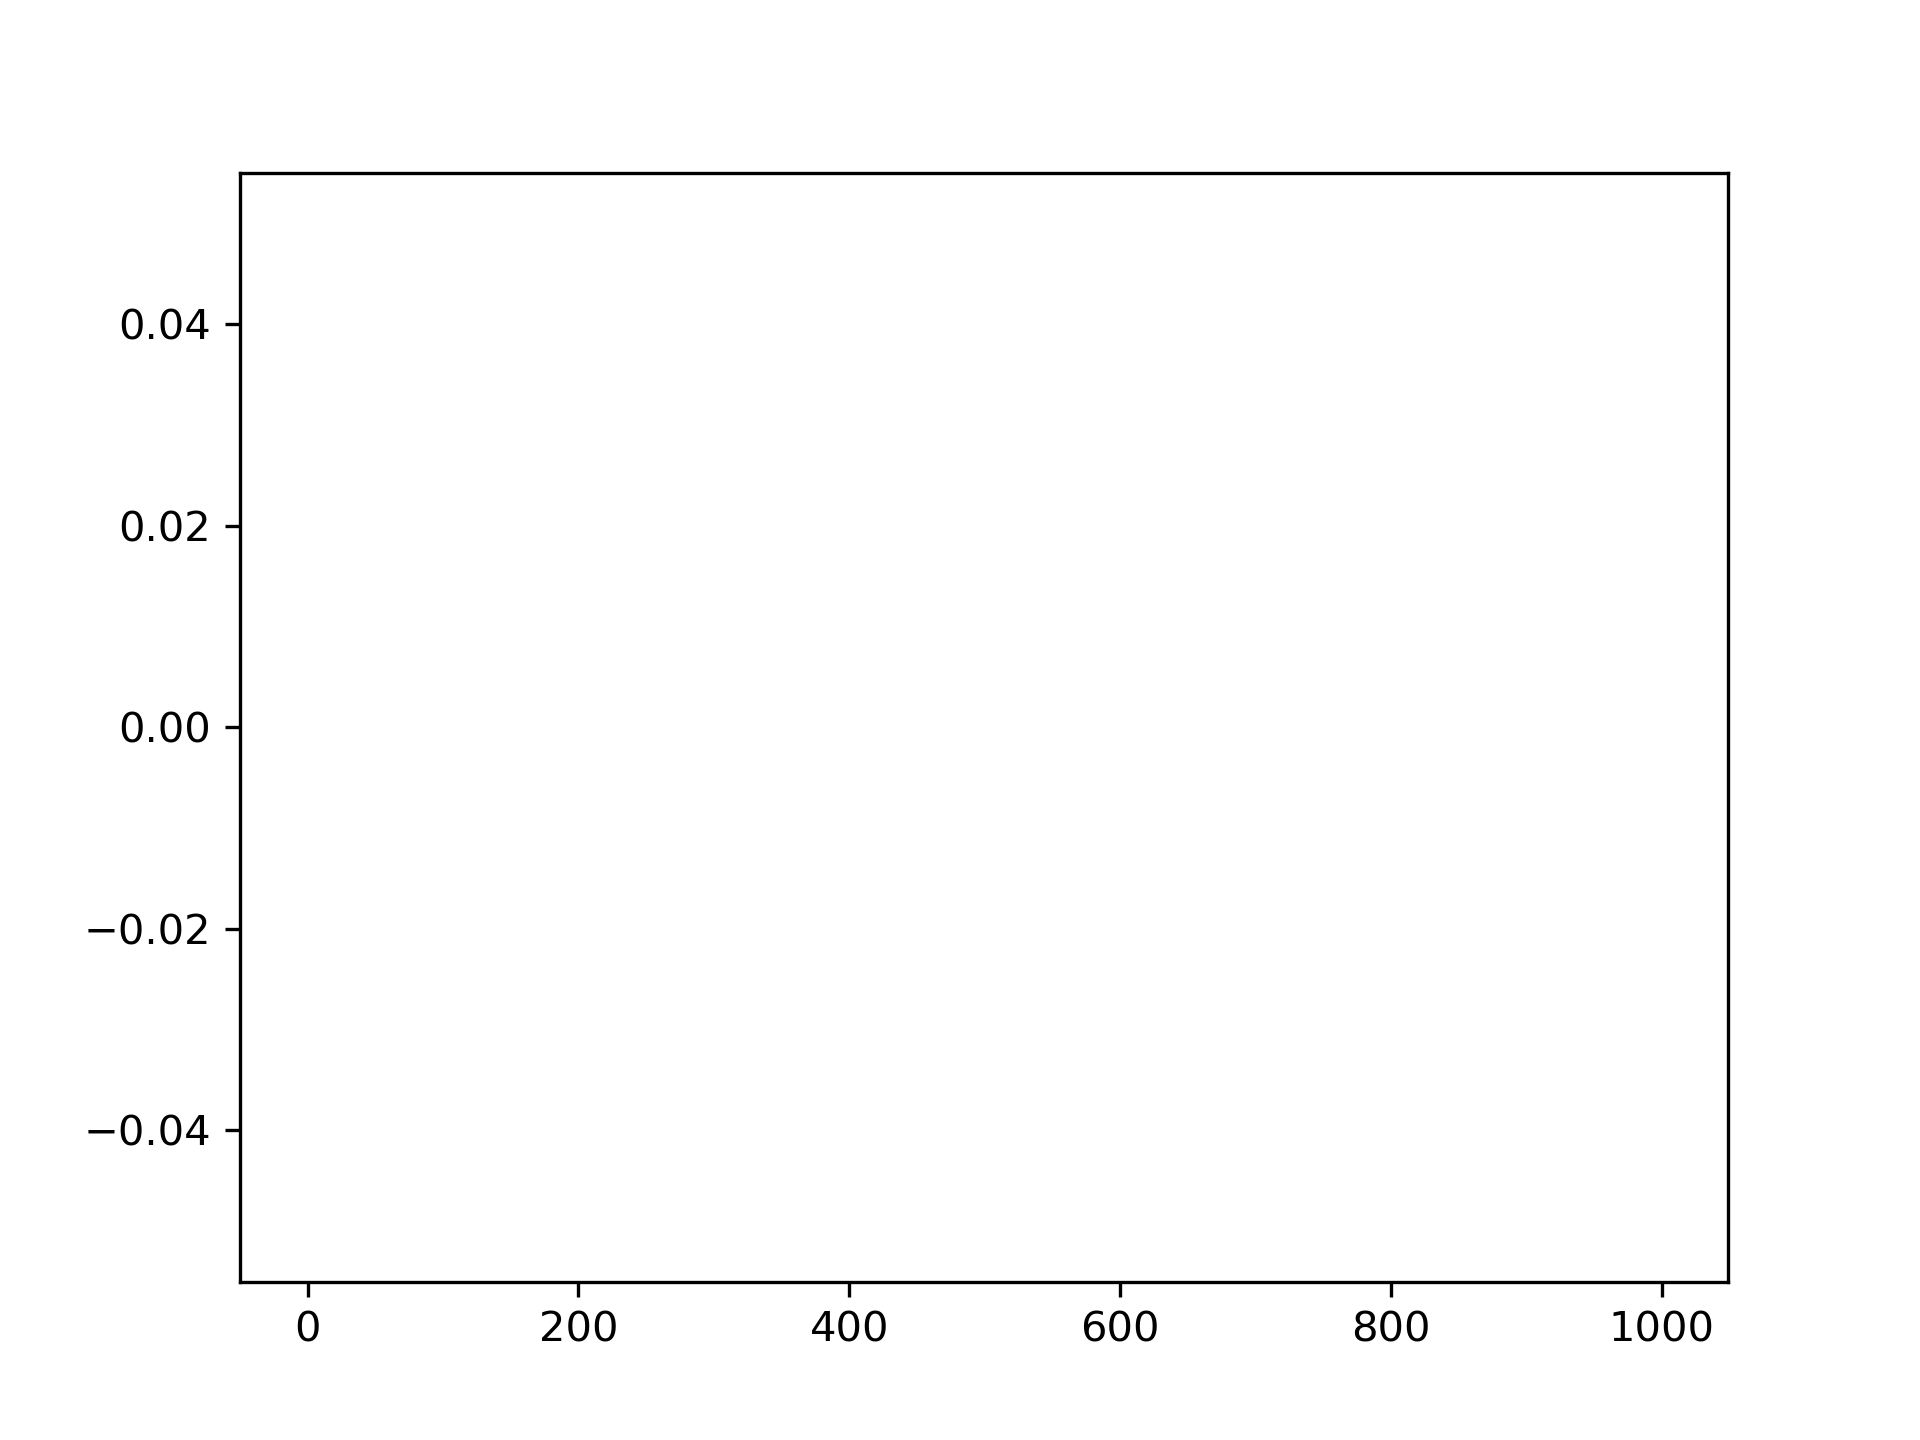
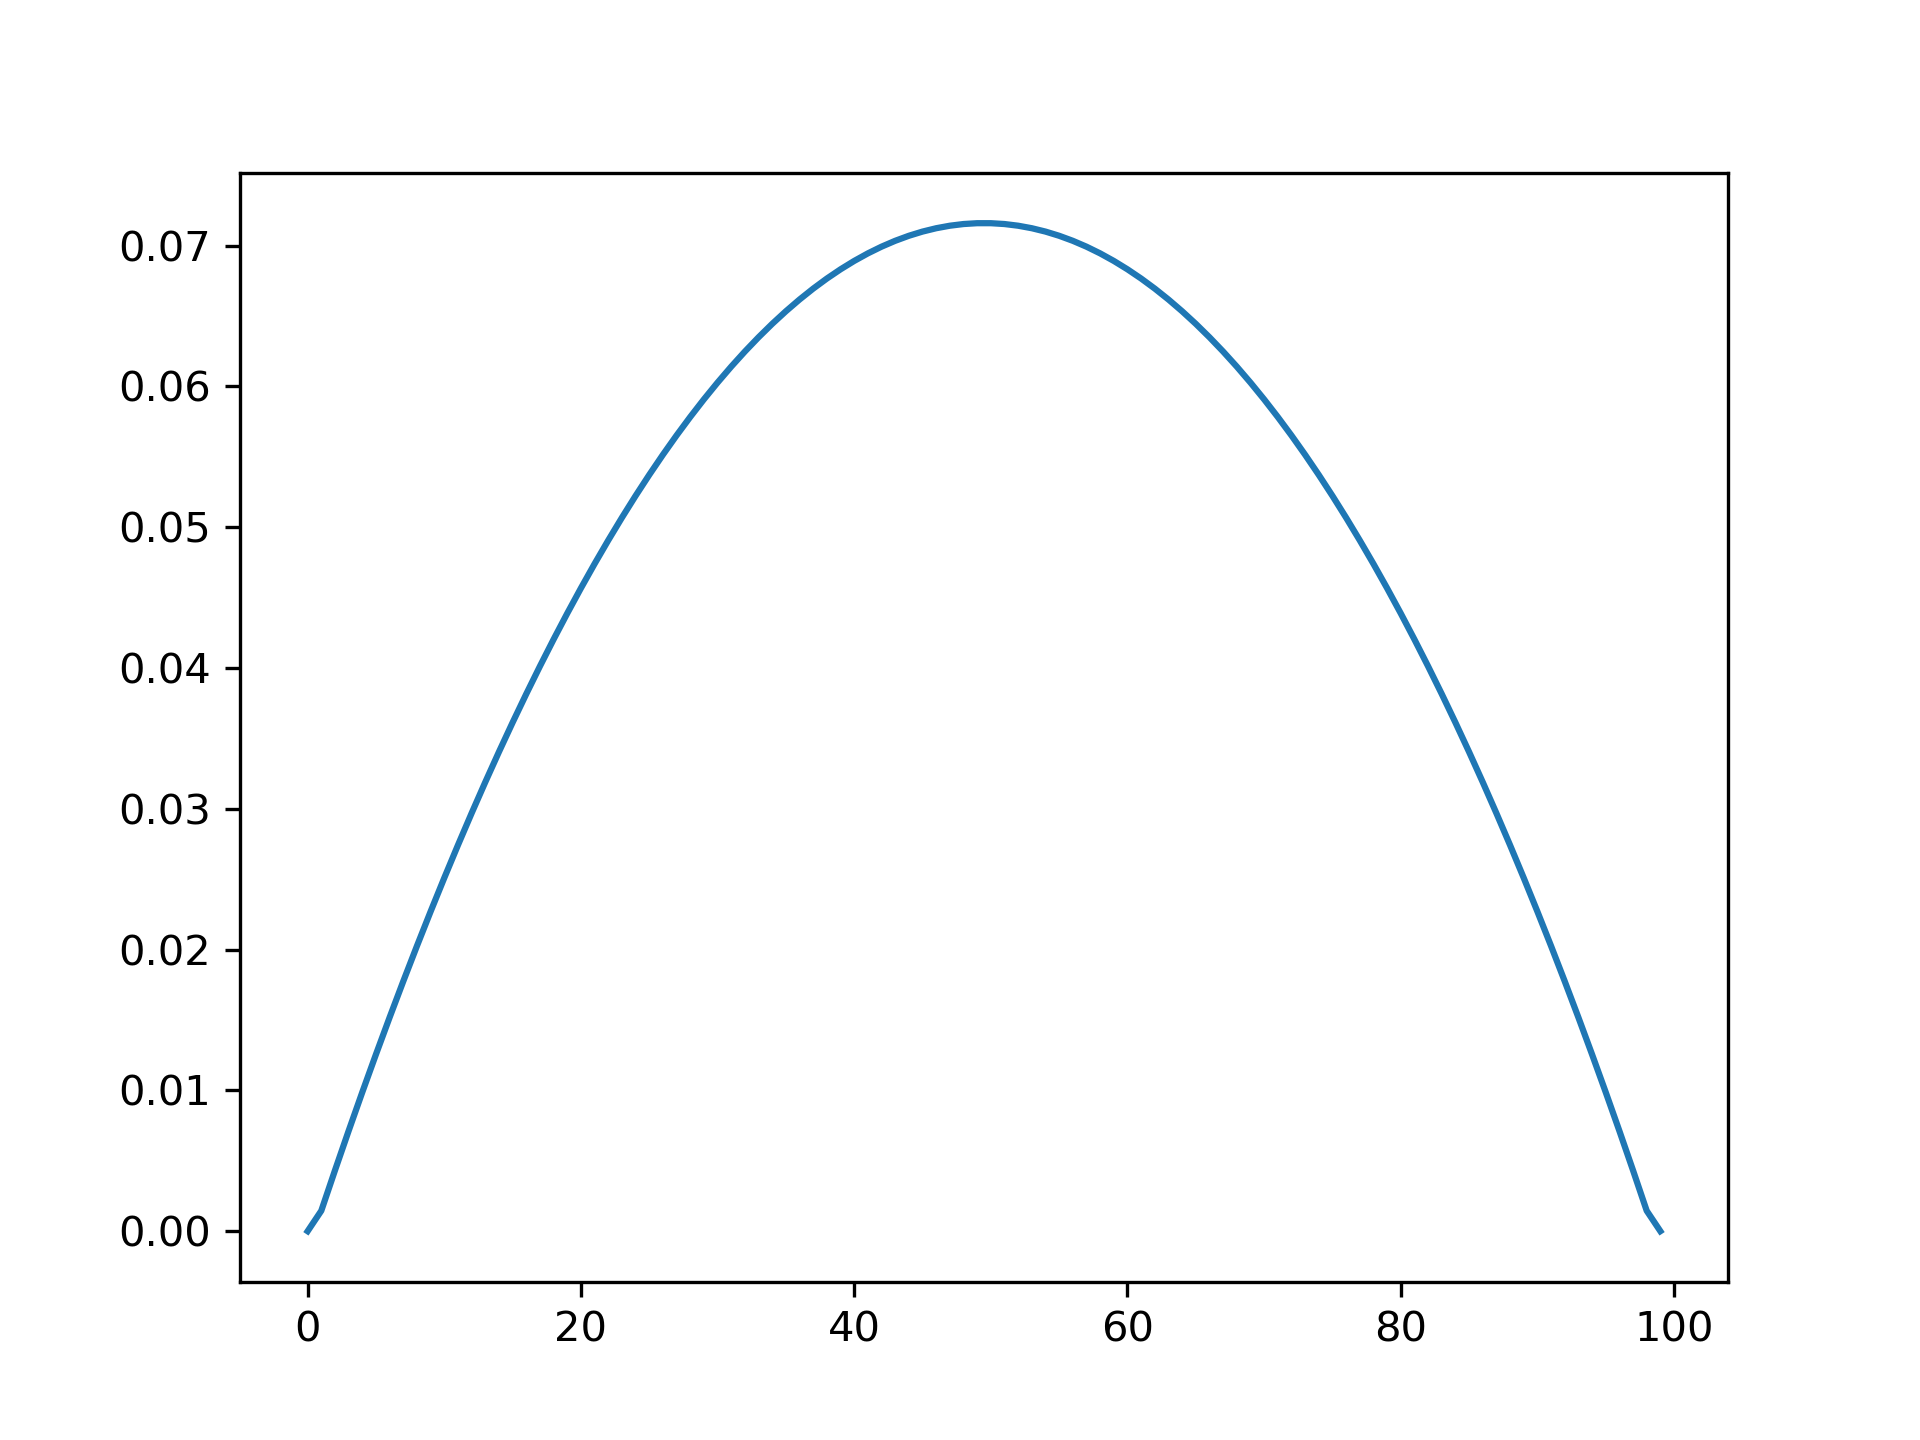
Numba double precision is done

diff --git a/Numba/Numba_gpu_single.py b/Numba/Numba_gpu_single.py
@@ -3,85 +3,57 @@ import numba as nb
 from numba import cuda
 import matplotlib.pyplot as plt
 import time
-dtype = np.float64
-jit_parallel = nb.njit(nogil=True,parallel=True)
 
-
-dtype = np.float64
-ex = np.array([0, 1, 0, 1, 1, -1, 0, -1, -1], dtype=dtype)
-ey = np.array([0, 0, 1, 1, -1, 0, -1, -1, 1], dtype=dtype)
-es = (1/3)**0.5
+dtype = np.float32
+ex_host = np.array([0, 1, 0, 1, 1, -1, 0, -1, -1], dtype=dtype)
+ey_host = np.array([0, 0, 1, 1, -1, 0, -1, -1, 1], dtype=dtype)
+es_host = (1/3)**0.5
 w0 = 4/9
 ws = 1/9
 wl = 1/36
-w = np.array([w0, ws, ws, wl, wl, ws, ws, wl, wl], dtype=dtype)
+w_host = np.array([w0, ws, ws, wl, wl, ws, ws, wl, wl], dtype=dtype)
 
-ex_gpu = cuda.to_device(ex)
-ey_gpu = cuda.to_device(ey)
+ex = cuda.to_device(ex_host)
+ey = cuda.to_device(ey_host)
 #es = cuda.to_device(es_host)  # es is a scalar, no need to copy to constant memory
-w_gpu = cuda.to_device(w)
+w = cuda.to_device(w_host)
 
+@cuda.jit
+def compute_macro_vars_gpu(f, nodetype, rho, u):
+    j, i = cuda.grid(2)
+    ny, nx = nodetype.shape
+    if i < ny and j < nx and nodetype[i, j] <= 0:
+        rho[i, j] = f[i, j, 0] + f[i, j, 1] + f[i, j, 2] + f[i, j, 3] + f[i, j, 4] + f[i, j, 5] + f[i, j, 6] + f[i, j, 7] + f[i, j, 8] 
+        fdotex = f[i, j, 1] + f[i, j, 3] + f[i, j, 4] - f[i, j, 5] - f[i, j, 7] - f[i, j, 8]
+        fdotey = f[i, j, 2] + f[i, j, 3] - f[i, j, 4] - f[i, j, 6] - f[i, j, 7] + f[i, j, 8]
+        u[0, i, j] = fdotex / rho[i, j]
+        u[1, i, j] = fdotey / rho[i, j]
+    elif i < ny and j < nx:
+        rho[i, j] = 0
+        u[0, i, j] = 0
+        u[1, i, j] = 0
 
-@jit_parallel
-def collide(f,rho,u,nodetype,tau,Fg):
-    ny,nx = nodetype.shape
-    for i in nb.prange(ny):
-        feq = [0.]*9
-        for j in range(nx):
-            if nodetype[i,j]<=0:
-                #apply forcing
-                u[0,i,j]+=Fg[0,i,j]*tau[i,j]/rho[i,j]
-                u[1,i,j]+=Fg[1,i,j]*tau[i,j]/rho[i,j]
-                #compute equilibrium distribution function
-                feq[0]= rho[i, j]*(-2.0/3.0*u[0,i, j]**2 - 2.0/3.0*u[1,i, j]**2 + 4.0/9.0)
-                feq[1]= rho[i, j]*((1.0/3.0)*u[0,i, j]**2 + (1.0/3.0)*u[0,i, j] - 1.0/6.0*u[1,i, j]**2 + 1.0/9.0)
-                feq[2]= rho[i, j]*(-1.0/6.0*u[0,i, j]**2 + (1.0/3.0)*u[1,i, j]**2 + (1.0/3.0)*u[1,i, j] + 1.0/9.0)
-                feq[3]= rho[i, j]*(-1.0/24.0*u[0,i, j]**2 + (1.0/12.0)*u[0,i, j] - 1.0/24.0*u[1,i, j]**2 + ( 
-                1.0/12.0)*u[1,i, j] + (1.0/8.0)*(u[0,i, j] + u[1,i, j])**2 + 1.0/36.0)
-                feq[4]= rho[i, j]*(-1.0/24.0*u[0,i, j]**2 + (1.0/12.0)*u[0,i, j] - 1.0/24.0*u[1,i,j]**2 - 
-                1.0/12.0*u[1,i,j] + (1.0/8.0)*(u[0,i,j] - u[1,i,j])**2 + 1.0/36.0)
-                feq[5]= rho[i,j]*((1.0/3.0)*u[0,i,j]**2 - 1.0/3.0*u[0,i,j] - 1.0/6.0*u[1,i,j]**2 + 1.0/9.0)
-                feq[6]= rho[i,j]*(-1.0/6.0*u[0,i,j]**2 + (1.0/3.0)*u[1,i,j]**2 - 1.0/3.0*u[1,i,j] + 1.0/9.0)
-                feq[7]= rho[i,j]*(-1.0/24.0*u[0,i,j]**2 - 1.0/12.0*u[0,i,j] - 1.0/24.0*u[1,i,j]**2 - 
-                1.0/12.0*u[1,i,j] + (1.0/8.0)*(-u[0,i,j] - u[1,i,j])**2 + 1.0/36.0)
-                feq[8]= rho[i,j]*(-1.0/24.0*u[0,i,j]**2 - 1.0/12.0*u[0,i,j] - 1.0/24.0*u[1,i,j]**2 + ( 
-                1.0/12.0)*u[1,i,j] + (1.0/8.0)*(-u[0,i,j] + u[1,i,j])**2 + 1.0/36.0)
-                #collision
-                for q in range(9):
-                    f[i,j,q]=(1.0-(1.0/(tau[i,j])))*f[i,j,q] +(1.0/(tau[i,j]))*feq[q] 
-
-                for q in range(1,5):
-                    fswap = f[i,j,q]
-                    f[i,j,q]=f[i,j,q+4]
-                    f[i,j,q+4]=fswap
-
-    return f  
-
-
-@jit_parallel
-def stream_and_bounce(f,nodetype):
-    global ex,ey,dtype
-    ny,nx = nodetype.shape
-    for i in nb.prange(ny):
-        for j in range(nx):
-            if nodetype[i,j]<=0:
-                for q in range(1,5):
-                    nexti = int(i-ey[q])
-                    nextj = int(j+ex[q])
-                    if nexti > ny-1: nexti = int(0)
-                    if nextj > nx-1: nextj = int(0)                        
-                    if nodetype[nexti,nextj]<=0:
-                        fswap = f[nexti,nextj,q]
-                        f[nexti,nextj,q] = f[i,j,q+4]
-                        f[i,j,q+4] = fswap
-
-    return f
-
-
+@cuda.jit
+def compute_edf_gpu(rho, u, nodetype, feq,ex,ey,w):
+    j, i = cuda.grid(2)
+    ny, nx = nodetype.shape
+    if i < ny and j < nx and nodetype[i, j] <= 0:
+        for q in range(9):
+            es= (1/3)**0.5
+            Termorder1 = (1. / es**2) * (ex[q] * u[0, i, j] + ey[q] * u[1, i, j])
+            euxy = ex[q] * ey[q] * u[0, i, j] * u[1, i, j]
+            euxx = ex[q] * ex[q] * u[0, i, j] * u[0, i, j]
+            euyy = ey[q] * ey[q] * u[1, i, j] * u[1, i, j]
+            eu2 = 2 * euxy + euxx + euyy
+            ux2 = u[0, i, j] * u[0, i, j]
+            uy2 = u[1, i, j] * u[1, i, j]
+            u2 = ux2 + uy2
+            Termorder2 = (0.5 / es**4) * eu2 - (0.5 / es**2) * u2
+            feq[i, j, q] = w[q] * rho[i, j] * (1 + Termorder1 + Termorder2)
 
 @cuda.jit
 def collide_gpu(f, rho, u, nodetype, tau, Fg):
-    i, j = cuda.grid(2)
+    j, i = cuda.grid(2)
     ny, nx = nodetype.shape
     if i < ny and j < nx and nodetype[i, j] <= 0:
         # Apply forcing
@@ -117,16 +89,17 @@ def collide_gpu(f, rho, u, nodetype, tau, Fg):
 
 @cuda.jit
 def update_f_old(f, f_old):
-    i, j = cuda.grid(2)
+    j, i = cuda.grid(2)
     ny, nx = f.shape[0] , f.shape[1]  
 
     if i < ny and j < nx:
         for q in range(9):  # Copy all directions, including q=0
             f_old[i, j, q] = f[i, j, q]
 
+
 @cuda.jit
 def stream_and_bounce_gpu(f, f_old, nodetype, ex, ey):
-    i, j = cuda.grid(2)
+    j, i = cuda.grid(2)
     ny, nx = nodetype.shape
 
     if i < ny and j < nx and nodetype[i, j] <= 0:
@@ -142,21 +115,22 @@ def stream_and_bounce_gpu(f, f_old, nodetype, ex, ey):
                 else:
                     f[i, j, q] = f_old[i, j, q - 4]
 
+              
 
-def test_stream():
-    nx = 10000
-    ny = 10000
+def test_lb():
+    nx = 2000
+    ny = 1000
+    niters = 400000
     rho = np.ones((ny, nx), dtype=dtype)
     tau = np.ones((ny, nx), dtype=dtype)
-    u = np.ones((2, ny, nx), dtype=dtype)*1e-4
+    u = np.zeros((2, ny, nx), dtype=dtype)
     Fg = np.zeros((2, ny, nx), dtype=dtype)
-    Fg[0, :, :] = 1e-4
+    Fg[0, :, :] = 1e-7
     nodetype = np.zeros((ny, nx), dtype=dtype)
     nodetype[0, :] = 1
     nodetype[-1, :] = 1
-    f = np.random.rand(ny, nx, 9).astype(dtype)
+    f = np.zeros((ny, nx, 9), dtype=dtype)
     f_old = np.zeros((ny, nx, 9), dtype=dtype)
-
 
     # GPU Memory Allocation
     f_d = cuda.to_device(f)
@@ -167,49 +141,32 @@ def test_stream():
     Fg_d = cuda.to_device(Fg)
     nodetype_d = cuda.to_device(nodetype)
 
-    #rho[10,10] += 1e-4
-
     threads_per_block = (16, 16)
     blocks_per_grid_x = (nx + threads_per_block[0] - 1) // threads_per_block[0]
     blocks_per_grid_y = (ny + threads_per_block[1] - 1) // threads_per_block[1]
     blocks_per_grid = (blocks_per_grid_x, blocks_per_grid_y)
 
-    collide_gpu[blocks_per_grid, threads_per_block](f_d, rho_d, u_d, nodetype_d, tau_d, Fg_d)
+    compute_edf_gpu[blocks_per_grid, threads_per_block](rho_d, u_d, nodetype_d, f_d,ex,ey,w)
+    t0 = time.time()
+    for i in range(niters):
+        collide_gpu[blocks_per_grid, threads_per_block](f_d, rho_d, u_d, nodetype_d, tau_d, Fg_d)
+        update_f_old[blocks_per_grid, threads_per_block](f_d, f_old_d)
+        stream_and_bounce_gpu[blocks_per_grid, threads_per_block](f_d,f_old_d, nodetype_d,ex,ey)
+        compute_macro_vars_gpu[blocks_per_grid, threads_per_block](f_d, nodetype_d, rho_d, u_d)
+    t1 = time.time()
 
-    update_f_old[blocks_per_grid, threads_per_block](f_d,f_old_d)
+    f = f_d.copy_to_host()
+    u = u_d.copy_to_host()
 
-    stream_and_bounce_gpu[blocks_per_grid, threads_per_block](f_d, f_old_d, nodetype_d, ex_gpu, ey_gpu)
+    mlups = (ny * nx * niters * 1e-6) / (t1 - t0)
+    print("MLUPS:", mlups)
+    print("Time taken", t1 - t0)
 
-    #f_d[10,10,2] +=1e-3
+    # plt.figure(1)
+    # plt.quiver(u[0], u[1])
+    # plt.savefig("guiver.png", dpi=300)
+    plt.figure(2)
+    plt.plot(u[0][:, int(nx / 2)])
+    plt.savefig("profile_gpu",dpi=300)
 
-    f_gpu = f_d.copy_to_host()
-
-    f_old_gpu = f_old_d.copy_to_host()
-
-    collide(f, rho,u,nodetype, tau, Fg)
-
-    f_cpu = stream_and_bounce(f, nodetype)
-
-    f_cpu[10,10,6] +=1e-16   
-
-    # print("f_gpu dtype:", f_gpu.dtype)
-    # print("f_cpu dtype:", f_cpu.dtype)
-
-    # print("NaNs in GPU:", np.isnan(f_gpu).any())
-    # print("NaNs in CPU:", np.isnan(f_cpu).any())
-    # diff = np.abs(f_cpu[10,10,6] - f_gpu[10,10,6])
-
-    # tol = 1e-20
-
-    # if diff < tol:
-    #     print ("True")
-    #     print(tol)
-    # else:
-    #     print("False")
-    #     print(tol)
-    #print(f_cpu[10,10,6] , f_gpu[10,10,6])
-    #equal = np.isclose(f_gpu[10,10,6], f_cpu[10,10,6], rtol=0, atol=1e-17)
-    equal = np.allclose(f_gpu, f_cpu, atol=1e-17,rtol=0 )
-    print(equal)
-
-test_stream()
+test_lb()

diff --git a/Numba/LBM_Numba_CPU.py b/Numba/LBM_Numba_CPU.py
@@ -103,14 +103,14 @@ def stream_and_bounce(f,nodetype):
 
 def test_lb():
     import time
-    nx=1000
-    ny=500
-    niters=50000
+    nx=100
+    ny=100
+    niters=30000
     rho =np.ones((ny,nx), dtype = dtype)
     tau =np.ones((ny,nx), dtype = dtype)
     u  =np.zeros((2,ny,nx),dtype = dtype)
     Fg = np.zeros((2,ny,nx),dtype = dtype)
-    Fg[0,:,:]=1e-4
+    Fg[0,:,:]=1e-5
     nodetype  =np.zeros((ny,nx),dtype = dtype)
     nodetype[0,:]=1
     nodetype[-1,:]=1
@@ -125,13 +125,14 @@ def test_lb():
     print("MLUPS:",mlups)
     print("Time taken",t1-t0)
     if True:
-        plt.figure(1)
-        plt.quiver(u[0],u[1])
+        # plt.figure(1)
+        # plt.quiver(u[0],u[1])
         plt.figure(2)
         plt.plot(u[0][:,int(nx/2)])
-        plt.figure(3)
-        plt.imshow(u[0])
-        plt.show()
+        plt.savefig("profile",dpi=300)
+        # plt.figure(3)
+        # plt.imshow(u[0])
+        #plt.show()
 
 test_lb()
 

diff --git a/Numba/Numba_gpu.py b/Numba/Numba_gpu.py
@@ -118,14 +118,14 @@ def stream_and_bounce_gpu(f, f_old, nodetype, ex, ey):
               
 
 def test_lb():
-    nx = 2000
+    nx = 1000
     ny = 1000
-    niters = 3000
+    niters = 400000
     rho = np.ones((ny, nx), dtype=dtype)
     tau = np.ones((ny, nx), dtype=dtype)
     u = np.zeros((2, ny, nx), dtype=dtype)
     Fg = np.zeros((2, ny, nx), dtype=dtype)
-    Fg[0, :, :] = 1e-4
+    Fg[0, :, :] = 1e-7
     nodetype = np.zeros((ny, nx), dtype=dtype)
     nodetype[0, :] = 1
     nodetype[-1, :] = 1
@@ -162,11 +162,11 @@ def test_lb():
     print("MLUPS:", mlups)
     print("Time taken", t1 - t0)
 
-    plt.figure(1)
-    plt.quiver(u[0], u[1])
-    plt.savefig("guiver.png", dpi=300)
+    # plt.figure(1)
+    # plt.quiver(u[0], u[1])
+    # plt.savefig("guiver.png", dpi=300)
     plt.figure(2)
     plt.plot(u[0][:, int(nx / 2)])
-    plt.savefig("profile",dpi=300)
+    plt.savefig("profile_gpu",dpi=300)
 
 test_lb()

diff --git a/Numba/compare_edf.py b/Numba/compare_edf.py
@@ -47,7 +47,7 @@ def compute_edf(rho,u,nodetype):
 
 @cuda.jit
 def compute_edf_gpu(rho, u, nodetype, feq,ex,ey,w):
-    i, j = cuda.grid(2)
+    j, i = cuda.grid(2)
     ny, nx = nodetype.shape
     if i < ny and j < nx and nodetype[i, j] <= 0:
         for q in range(9):
@@ -67,7 +67,7 @@ def compute_edf_gpu(rho, u, nodetype, feq,ex,ey,w):
 
 def test_stream():
     nx = 10000
-    ny = 10000
+    ny = 20000
     rho = np.ones((ny, nx), dtype=dtype)
     u = np.ones((2, ny, nx), dtype=dtype)*1e-4
     nodetype = np.zeros((ny, nx), dtype=dtype)
@@ -95,7 +95,7 @@ def test_stream():
 
     #f_cpu[25] = 0
 
-    equal = np.allclose(f_gpu, f_cpu, atol=1e-30)
+    equal = np.allclose(f_gpu, f_cpu, atol=1e-17, rtol=0)
     print(equal)
 
 test_stream()

diff --git a/Numba/compare_macro.py b/Numba/compare_macro.py
@@ -56,7 +56,7 @@ def test_macro():
     u_d = cuda.to_device(u)
     nodetype_d = cuda.to_device(nodetype)
 
-    #f[10,10,3] +=1e-3
+    #f[10,10,3] +=1e-14
 
     threads_per_block = (16, 16)
     blocks_per_grid_x = (nx + threads_per_block[0] - 1) // threads_per_block[0]
@@ -73,8 +73,8 @@ def test_macro():
 
     #f_cpu[25] = 0
 
-    equal = np.allclose(rho_gpu, rho, atol=1e-30)
-    equal2 = np.allclose(u_gpu, u, atol=1e-30)
+    equal = np.allclose(rho_gpu, rho, atol=1e-17, rtol=0)
+    equal2 = np.allclose(u_gpu, u, atol=1e-17, rtol=0)
     print(equal,equal2)
 
 test_macro()
